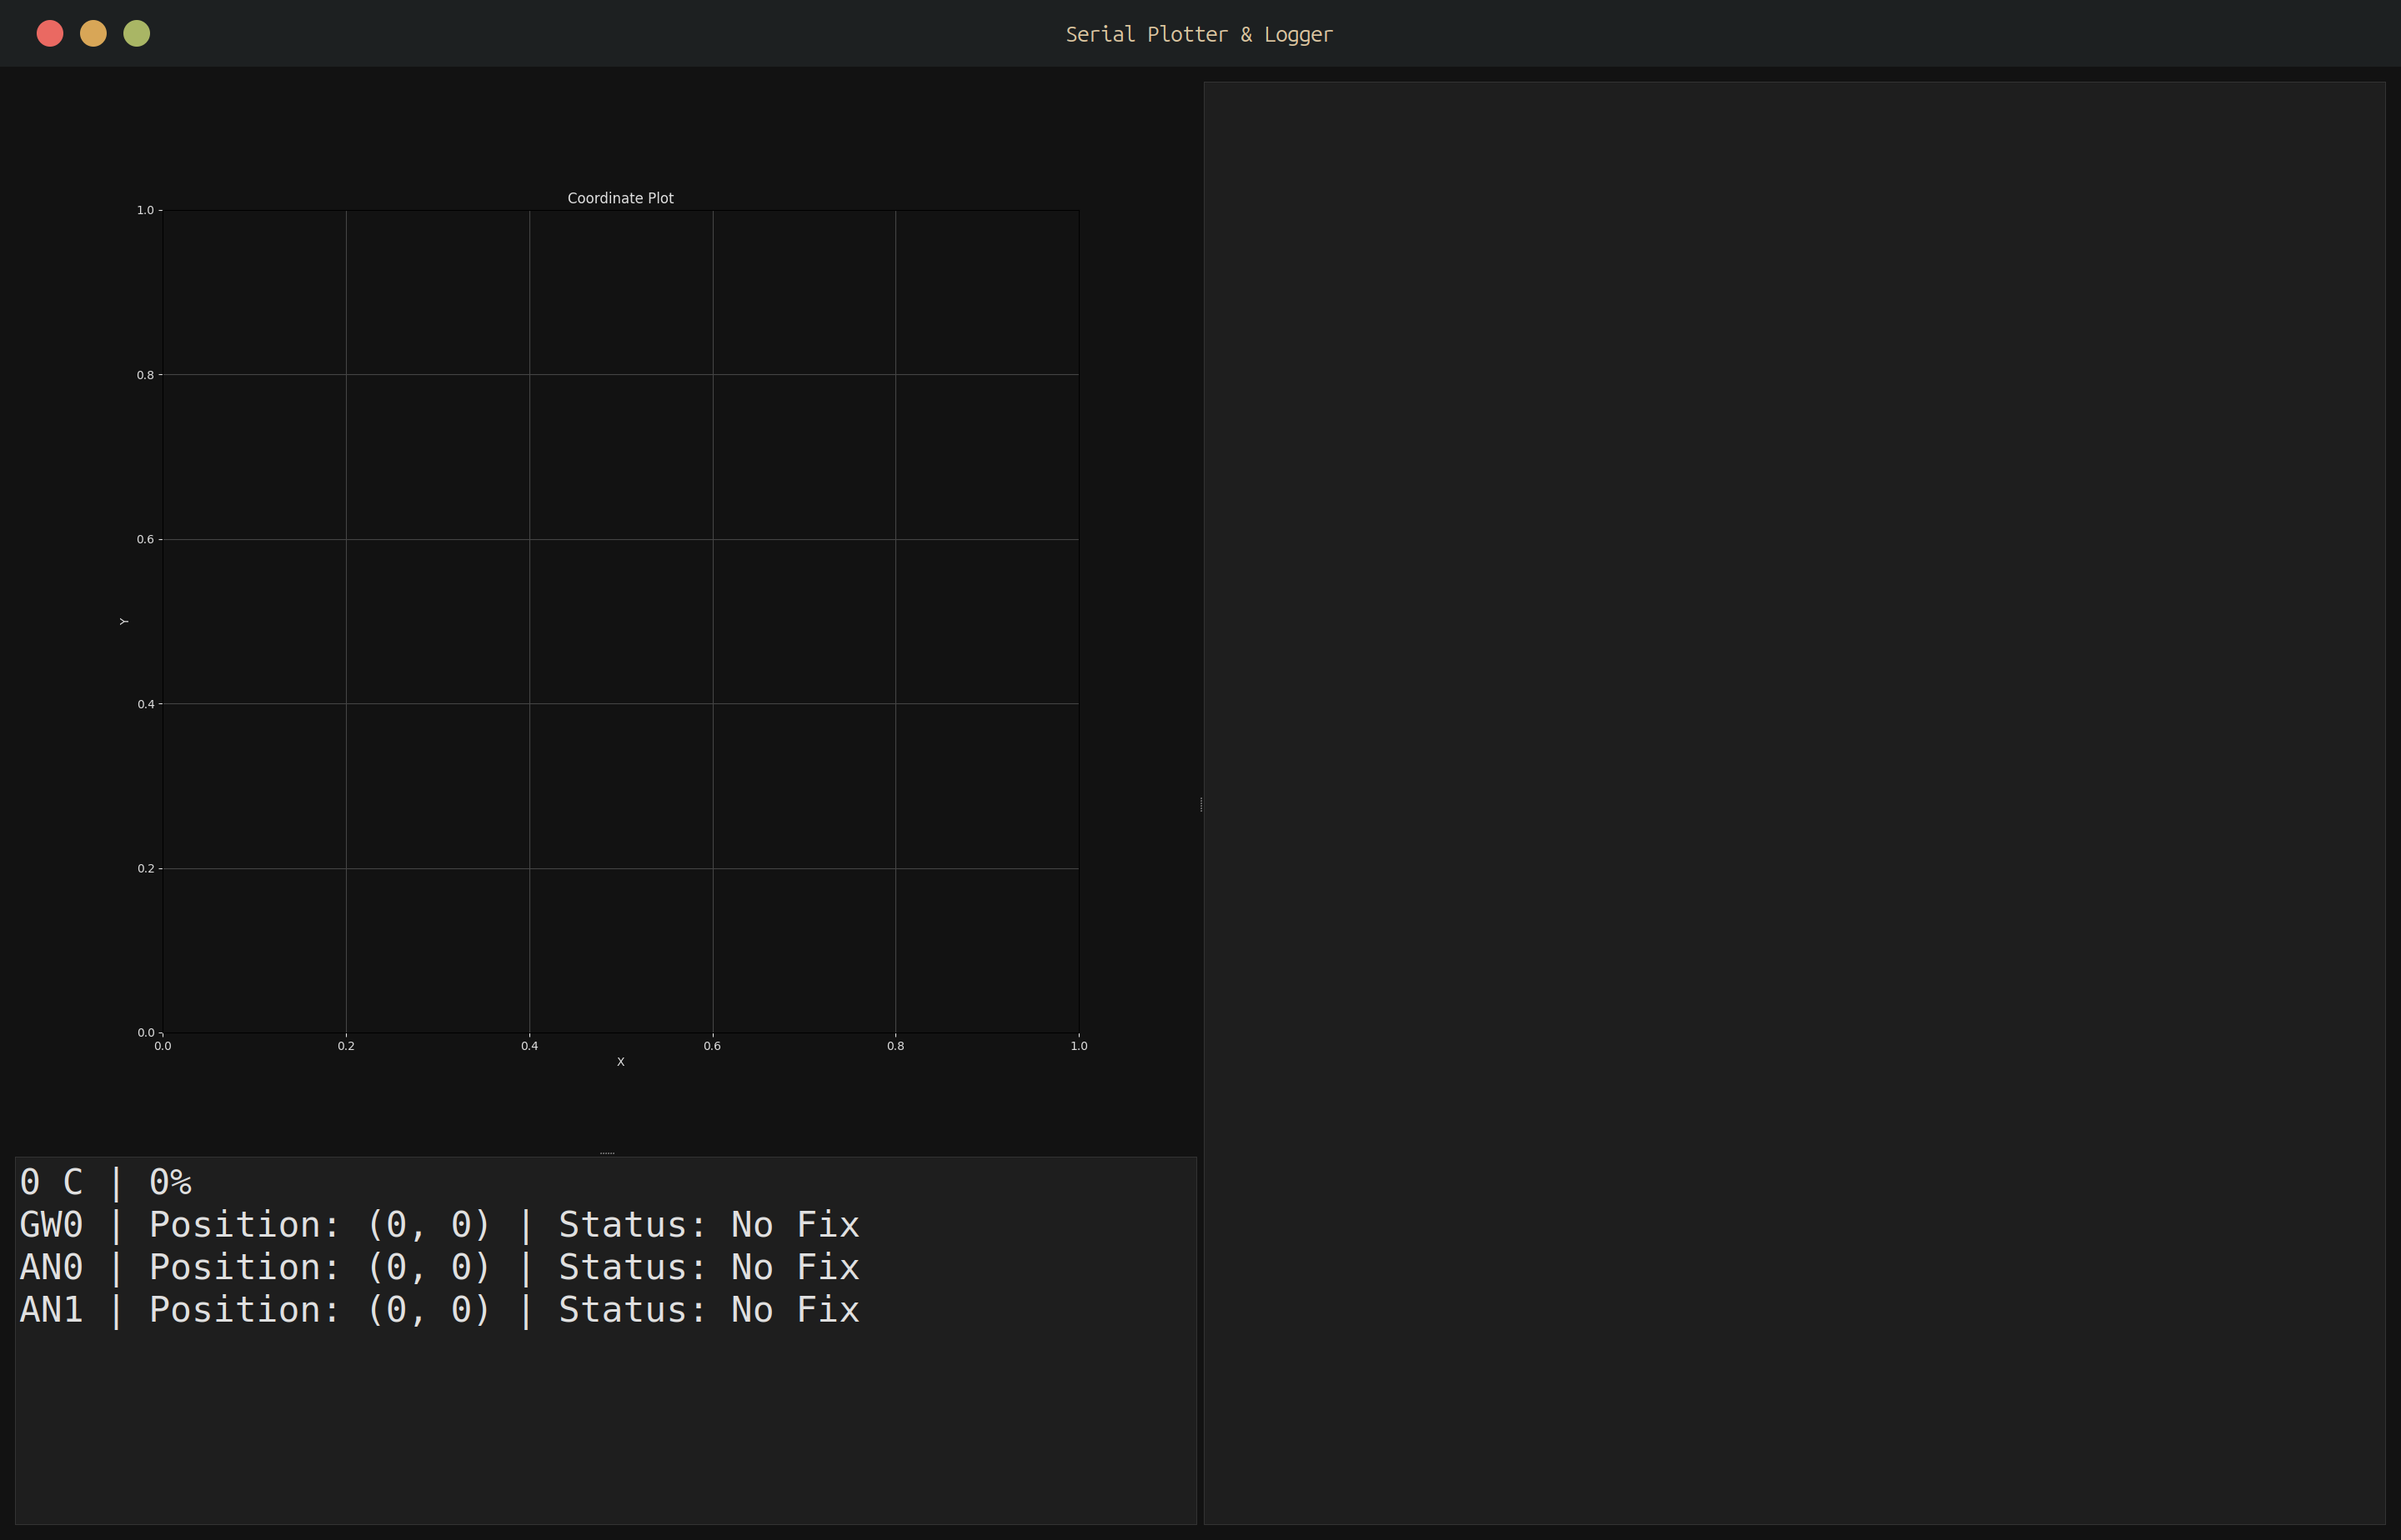
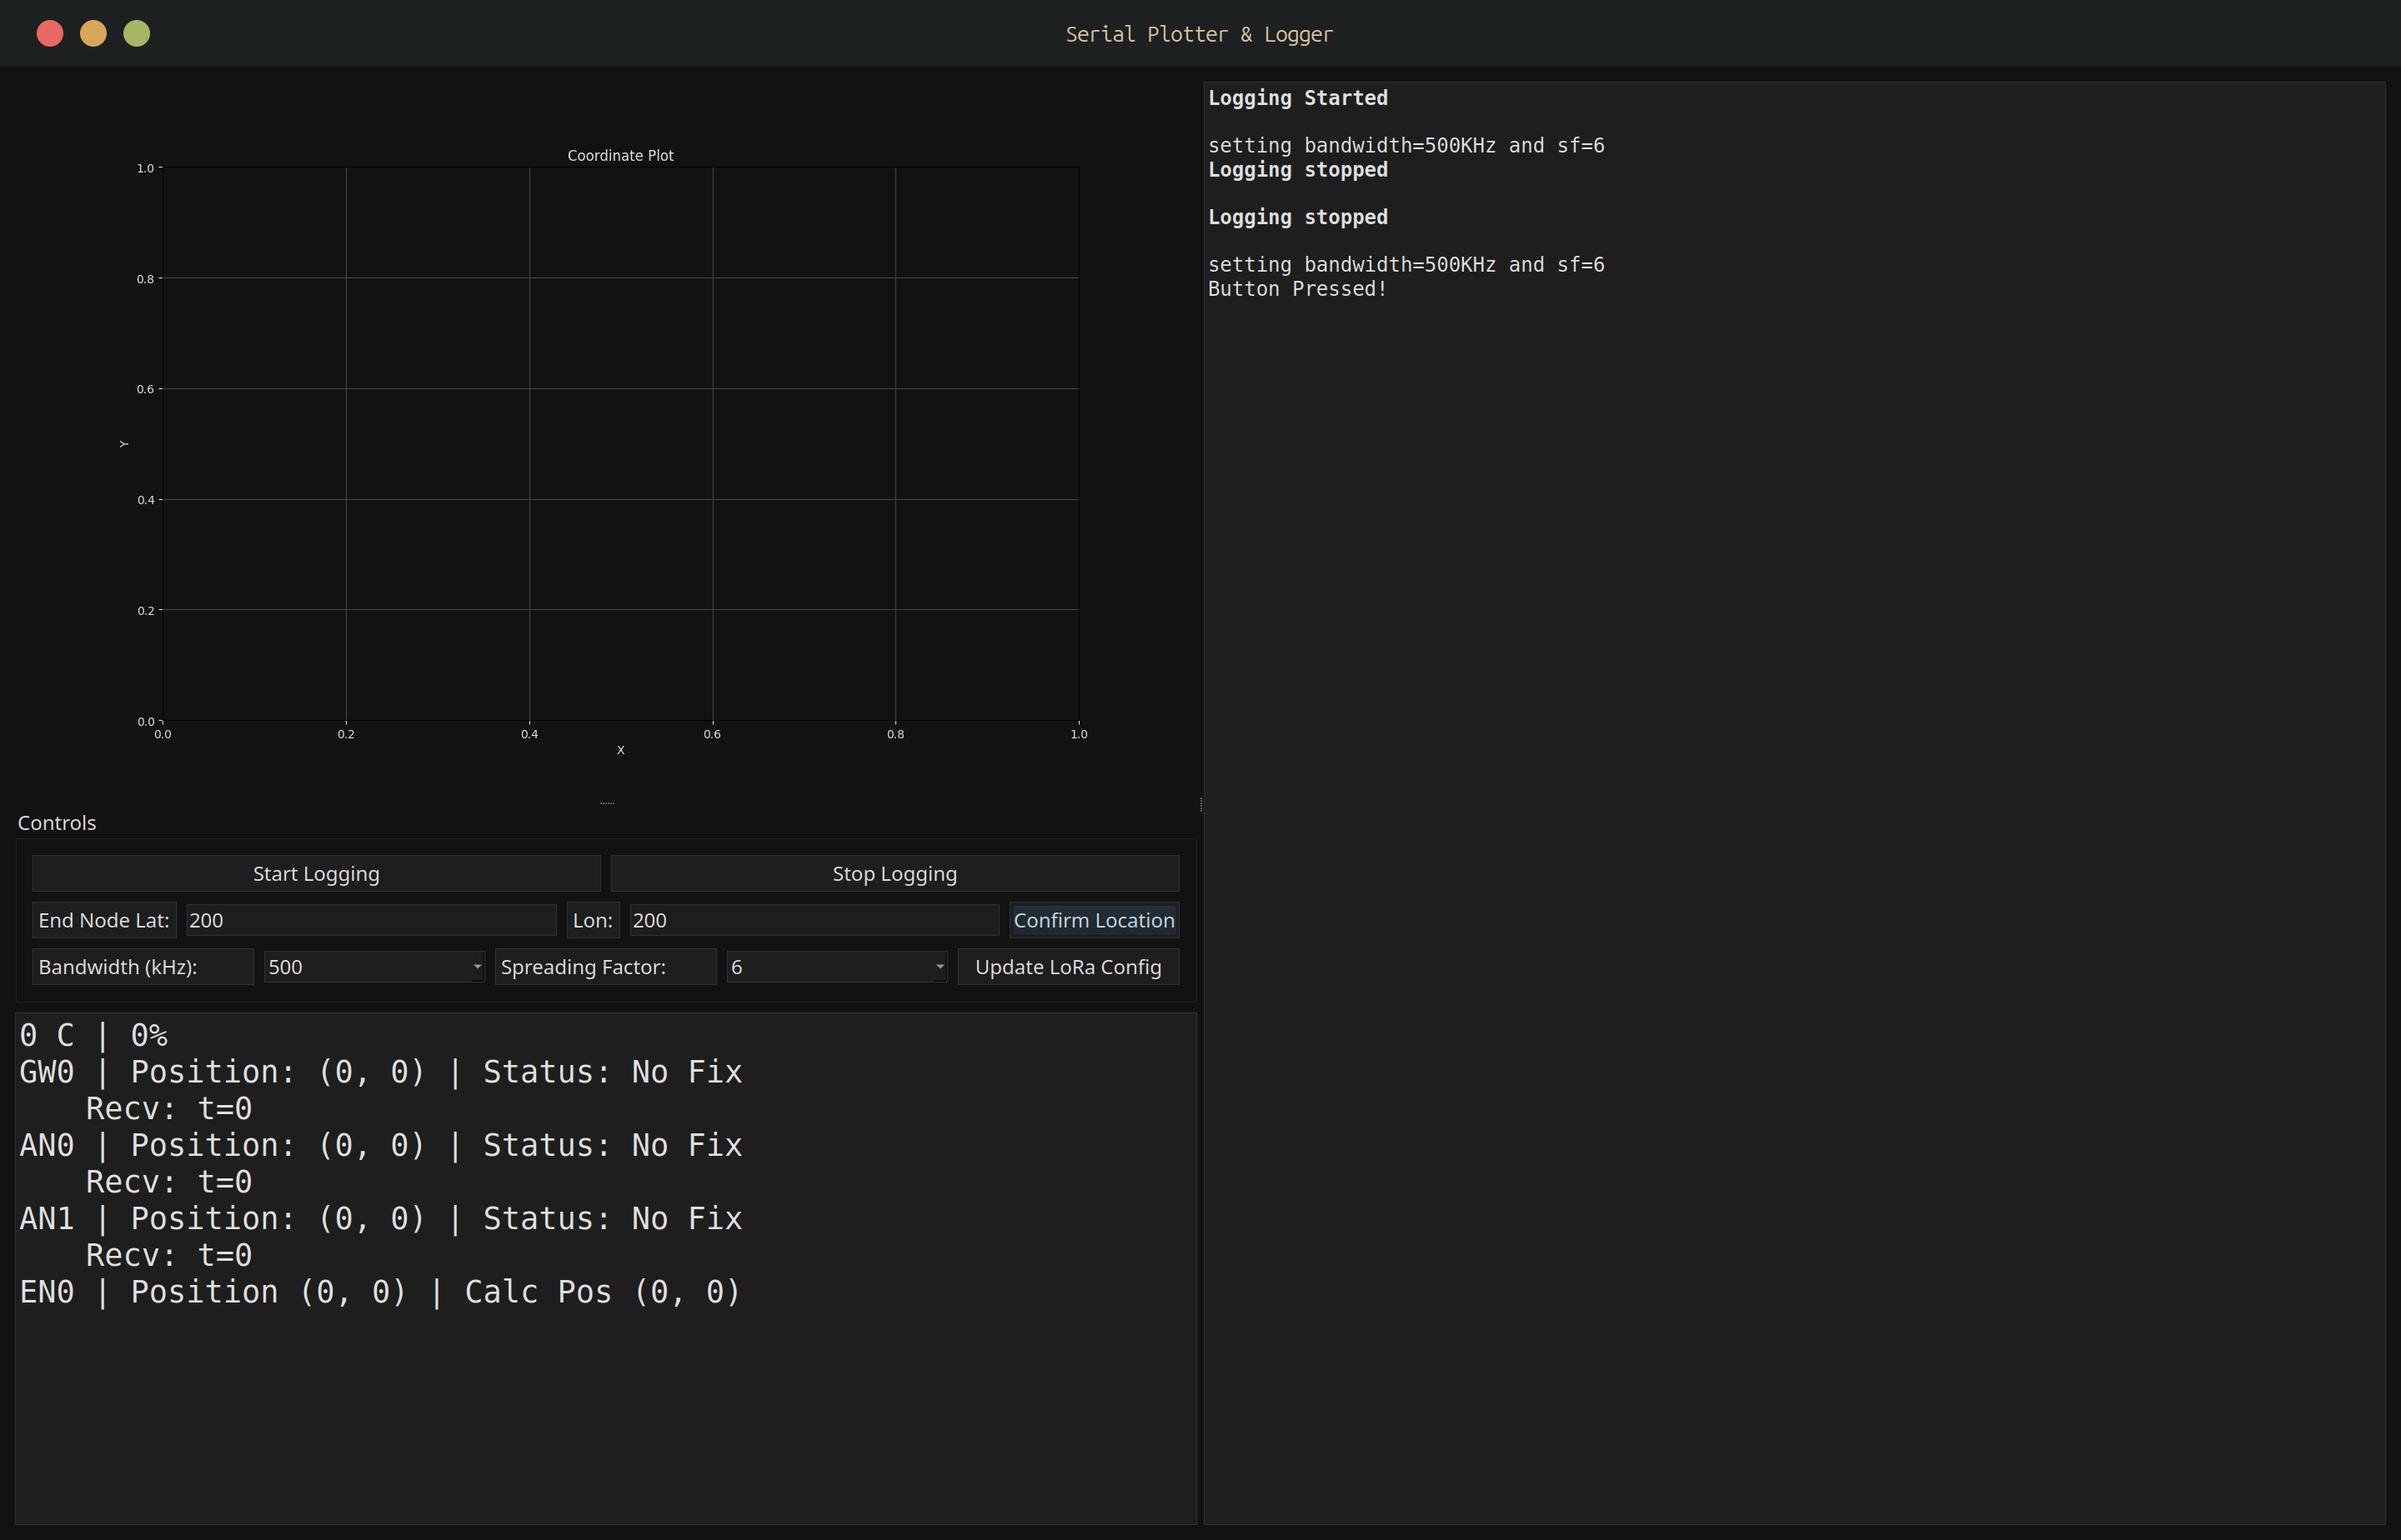
Update GUI with more controls
- LoRa config settings
- Start/Stop logging buttons
- End Node true location settings

diff --git a/gui.py b/gui.py
@@ -3,13 +3,15 @@ import serial
 import threading
 from PyQt5.QtWidgets import (
     QApplication, QMainWindow, QWidget, QVBoxLayout,
-    QSplitter, QTextEdit
+    QSplitter, QTextEdit, QPushButton, QLineEdit,
+    QComboBox, QFormLayout, QGroupBox, QLabel, QHBoxLayout
 )
 from PyQt5.QtCore import Qt, pyqtSignal, QObject
 from PyQt5.QtGui import QFont
 from matplotlib.backends.backend_qt5agg import FigureCanvasQTAgg as FigureCanvas
 from matplotlib.figure import Figure
 from ansi2html import Ansi2HTMLConverter
+from loratrack_hat import Node
 
 WINDOW_SIZE = 3
 
@@ -51,7 +53,7 @@ class MplCanvas(FigureCanvas):
         self.ax.set_facecolor("#121212")
         fig.patch.set_facecolor("#121212")
 
-        self.ax.grid(color="#444444")  # subtle grid
+        self.ax.grid(color="#444444")
         self.ax.tick_params(colors="#e0e0e0")
         self.ax.xaxis.label.set_color("#e0e0e0")
         self.ax.yaxis.label.set_color("#e0e0e0")
@@ -85,23 +87,76 @@ class MainWindow(QMainWindow):
         self.node_status.setFontPointSize(14)
         self.node_status.setFont(font)
 
-        # Splitter for plot + node status
+        # --- Controls (Start Logging + Inputs) ---
+        self.control_panel = QGroupBox("Controls")
+        control_layout = QVBoxLayout()
+
+        # --- Row 1: Start/Stop Logging ---
+        log_buttons_layout = QHBoxLayout()
+        self.log_button = QPushButton("Start Logging")
+        self.log_button.clicked.connect(self.start_logging)
+        self.log_button_stop = QPushButton("Stop Logging")
+        self.log_button_stop.clicked.connect(self.stop_logging)
+        log_buttons_layout.addWidget(self.log_button)
+        log_buttons_layout.addWidget(self.log_button_stop)
+        control_layout.addLayout(log_buttons_layout)
+
+        # --- Row 2: Latitude, Longitude Inputs + Confirm ---
+        lat_lon_layout = QHBoxLayout()
+        self.lat_input = QLineEdit()
+        self.lat_input.setPlaceholderText("Latitude")
+        self.lon_input = QLineEdit()
+        self.lon_input.setPlaceholderText("Longitude")
+        self.latlon_confirm = QPushButton("Confirm Location")
+        self.latlon_confirm.clicked.connect(self.confirm_location)  # You should define this method
+        lat_lon_layout.addWidget(QLabel("End Node Lat:"))
+        lat_lon_layout.addWidget(self.lat_input)
+        lat_lon_layout.addWidget(QLabel("Lon:"))
+        lat_lon_layout.addWidget(self.lon_input)
+        lat_lon_layout.addWidget(self.latlon_confirm)
+        control_layout.addLayout(lat_lon_layout)
+
+        # --- Row 3: LoRa Config + Confirm ---
+        lora_layout = QHBoxLayout()
+        self.bw_dropdown = QComboBox()
+        self.bw_dropdown.addItems(["500", "250", "125"])
+        self.sf_dropdown = QComboBox()
+        self.sf_dropdown.addItems([str(sf) for sf in range(6, 11)])
+        self.update_lora = QPushButton("Update LoRa Config")
+        self.update_lora.clicked.connect(self.update_lora_cfg)
+        lora_layout.addWidget(QLabel("Bandwidth (kHz):"))
+        lora_layout.addWidget(self.bw_dropdown)
+        lora_layout.addWidget(QLabel("Spreading Factor:"))
+        lora_layout.addWidget(self.sf_dropdown)
+        lora_layout.addWidget(self.update_lora)
+        control_layout.addLayout(lora_layout)
+
+        self.control_panel.setLayout(control_layout)
+
+        # --- Left Side Splitter ---
         left_splitter = QSplitter(Qt.Vertical)
         left_splitter.addWidget(self.canvas)
-        left_splitter.addWidget(self.node_status)
-        left_splitter.setSizes([400, 120])
 
-        # Main splitter: (plot+status) | (log)
+        # --- Container widget to stack controls and node status ---
+        bottom_left_container = QWidget()
+        bottom_left_layout = QVBoxLayout(bottom_left_container)
+        bottom_left_layout.setContentsMargins(0, 0, 0, 0)
+        bottom_left_layout.addWidget(self.control_panel)
+        bottom_left_layout.addWidget(self.node_status)
+
+        left_splitter.addWidget(bottom_left_container)
+        left_splitter.setSizes([1200, 1200])
+
+        # --- Main splitter: (plot+controls+status) | (log) ---
         main_splitter = QSplitter(Qt.Horizontal)
         main_splitter.addWidget(left_splitter)
         main_splitter.addWidget(self.text_log)
-        main_splitter.setSizes([1, 1])  # split evenly
+        main_splitter.setSizes([1200, 1200])
 
         central = QWidget()
         layout = QVBoxLayout(central)
         layout.addWidget(main_splitter)
         self.setCentralWidget(central)
-
 
         # Data storage
         self.x_data = []
@@ -112,7 +167,11 @@ class MainWindow(QMainWindow):
         self.humi_samples = []
         self.humi_n = 0
         self.humi_avg = 0
-        self.nodes = [["GW0", 0, 0, 0, 0], ["AN0", 0, 0, 0, 0], ["AN1", 0, 0, 0, 0]]
+
+        self.gw0 = Node("GW0")
+        self.an0 = Node("AN0")
+        self.an1 = Node("AN1")
+        self.nodes = [self.gw0, self.an0, self.an1]
         self.update_node_status()
 
         # ANSI converter
@@ -123,8 +182,22 @@ class MainWindow(QMainWindow):
         self.serial_reader.data_received.connect(self.handle_serial_data)
         self.serial_reader.cmd_received.connect(self.handle_cmd)
 
+    def confirm_location(self):
+        self.text_log.append("Button Pressed!")
+
+    def update_lora_cfg(self):
+        bw = self.bw_dropdown.currentText()
+        sf = self.sf_dropdown.currentText()
+        self.text_log.append(f"setting bandwidth={bw}KHz and sf={sf}")
+
+
+    def stop_logging(self):
+        self.text_log.append(f"<b>Logging stopped</b><br>")
+
+    def start_logging(self):
+        self.text_log.append(f"<b>Logging Started</b><br>")
+
     def handle_serial_data(self, line):
-        # Convert ANSI escape codes -> HTML for log window
         html = self.ansi_conv.convert(line, full=False)
         self.text_log.append(html)
 
@@ -137,6 +210,7 @@ class MainWindow(QMainWindow):
         if checksum_recv != checksum_calc:
             print("Checksum error")
             return
+
         if cmd_list[0][3:] == "WTHR":
             if (len(self.temp_samples) == WINDOW_SIZE): 
                 self.temp_samples.pop(0)
@@ -146,38 +220,53 @@ class MainWindow(QMainWindow):
                 self.humi_samples.pop(0)
             self.humi_samples.append(100 * (int(cmd_list[2]) / 65535.0))
             self.humi_avg = round(sum(self.humi_samples) / len(self.humi_samples), 1)
+
         elif cmd_list[0][3:] == "LORA":
-            print(cmd_list)
+            if cmd_list[0][:3] == "GW0":
+                self.gw0.add_info(cmd_list)
+            elif cmd_list[0][:3] == "AN0":
+                self.an0.add_info(cmd_list)
+            elif cmd_list[0][:3] == "AN1":
+                self.an1.add_info(cmd_list)
+            else:
+                print("invalid node id")
+                
         elif cmd_list[0][3:] == "POS":
+            if cmd_list[0][:3] == "GW0":
+                self.gw0.set_nav(cmd_list)
+            elif cmd_list[0][:3] == "AN0":
+                self.an0.set_nav(cmd_list)
+            elif cmd_list[0][:3] == "AN1":
+                self.an1.set_nav(cmd_list)
+            else:
+                print("invalid node id")
             print(cmd_list)
+
         elif cmd_list[0][3:] == "TIME":
             print(cmd_list)
         else:
-            print("ERROR:",cmd_list)
+            print("ERROR:", cmd_list)
 
         self.update_node_status()
-
 
     def update_node_status(self):
         self.node_status.clear()
         self.node_status.append(f"{self.temp_avg} C | {self.humi_avg}%")
         for node in self.nodes:
-            if node[3] == 0: 
+            if node.fix_status == 0: 
                 status = "No Fix"
-            if node[3] == 1: 
+            if node.fix_status == 1: 
                 status = "Sampling"
-            if node[3] == 2: 
+            if node.fix_status == 2: 
                 status = "Position Hold"
-            self.node_status.append(f"{node[0]} | Position: ({node[1]}, {node[2]}) | Status: {status}")
-            self.node_status.append(f"\tRecv: t={node[3]}");
-
+            self.node_status.append(f"{node.id} | Position: ({node.pos[0]}, {node.pos[1]}) | Status: {status}")
+            self.node_status.append(f"\tRecv: t={node.timestamp}")
         self.node_status.append(f"EN0 | Position (0, 0) | Calc Pos (0, 0)")
-
 
     def update_plot(self):
         self.canvas.ax.clear()
 
-        # --- Reapply dark styling after clear ---
+        # Reapply dark styling
         self.canvas.ax.set_facecolor("#121212")
         self.canvas.figure.patch.set_facecolor("#121212")
         self.canvas.ax.grid(color="#444444")
@@ -191,7 +280,6 @@ class MainWindow(QMainWindow):
         self.canvas.ax.set_xlabel("X")
         self.canvas.ax.set_ylabel("Y")
         self.canvas.draw()
-
 
     def closeEvent(self, event):
         self.serial_reader.stop()
@@ -207,10 +295,13 @@ if __name__ == "__main__":
             background-color: #121212;
             color: #e0e0e0;
         }
-        QTextEdit, QLabel {
+        QTextEdit, QLabel, QLineEdit, QComboBox, QPushButton {
             background-color: #1e1e1e;
             color: #e0e0e0;
             border: 1px solid #333333;
+        }
+        QPushButton {
+            padding: 4px;
         }
     """
     app.setStyleSheet(dark_stylesheet)

diff --git a/loratrack_hat.py b/loratrack_hat.py
@@ -1,0 +1,16 @@
+class Node():
+    def __init__(self, id):
+        self.id = id
+        self.rssi = 0
+        self.snr = 0
+        self.timestamp = 0
+        self.ticks = 0
+        self.pos = (0, 0)
+        self.fix_status = 0
+        self.poshold = 0
+
+    def add_lora_info(self, info):
+        pass
+
+    def add_nav(self, nav):
+        pass
